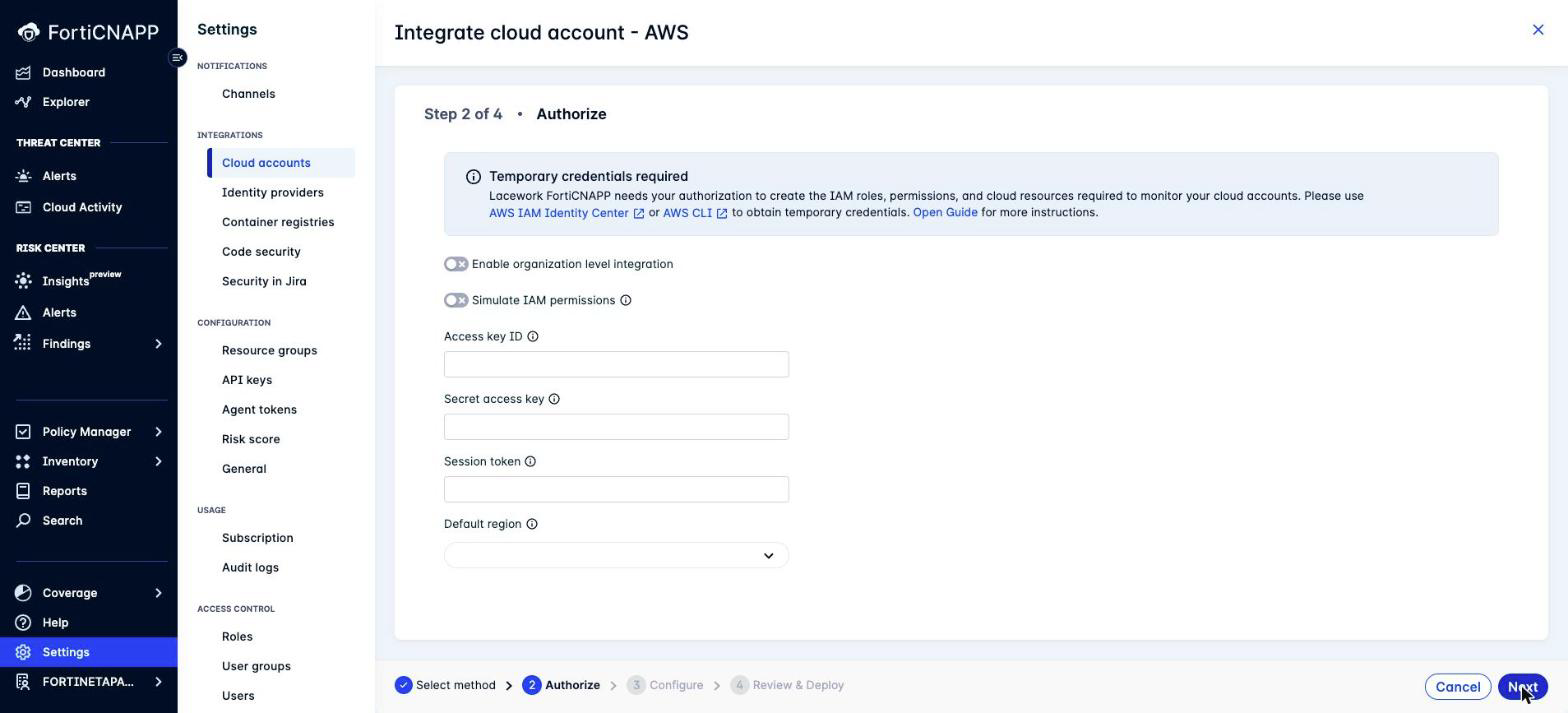
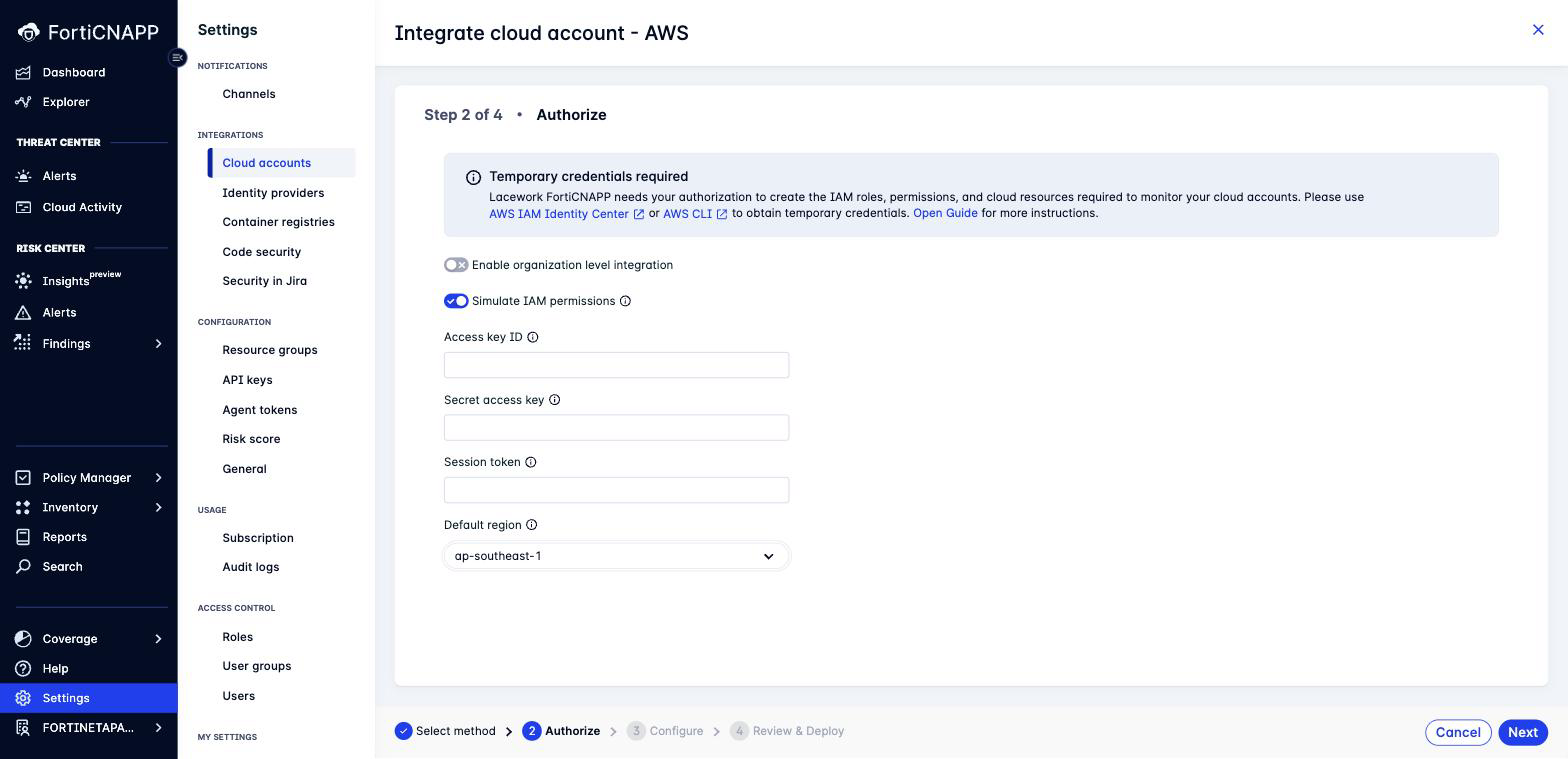
Lab 6: search on the tag key, and warn about orphaned hourly scanners
Three different lacework_tag values seen in one tenant, so a value filter
misses resources. Adds the EventBridge orphan case found in 911167906565:
an agentless rule still firing hourly 18 months after its integration was
deleted.

diff --git a/lab-06/README.md b/lab-06/README.md
@@ -31,9 +31,14 @@ exact tags applied, for example:
 > All cloud resources are tagged with `lacework_tag: self-deployment` and
 > `lacework_integration: aws_config`
 
-> **Read the tag values from this screen.** The administration guide lists the
-> `lacework_integration` value for the configuration integration as `configuration`, while
-> the product applies `aws_config`. The deployment record is authoritative.
+> **Read the tag values from this screen, and search on the tag key.** The values are not
+> stable. The administration guide documents `lacework_tag: self-deployment` and
+> `lacework_integration: configuration`. A 2026 deployment record shows
+> `lacework_integration: aws_config`. Resources deployed in March 2025 carry
+> `lacework_tag: lacework-self-deploy`. All three are real, seen in the same tenant.
+>
+> Search on the key `lacework_tag` with any value. Do not filter on a value, or you will
+> miss resources and leave them running.
 
 Keep this page open. It is your cleanup checklist.
 
@@ -58,8 +63,12 @@ Remove them with the tag search.
 5. Set **Resource types** to **All supported resource types**.
 6. Add this tag filter:
    - **Tag key**: `lacework_tag`
-   - **Tag value**: `self-deployment`
+   - **Tag value**: leave empty, so the search matches every value
 7. Click **Search resources**.
+
+Agentless scanning also tags its networking with `LWTAG_LACEWORK_AGENTLESS`. Run a second
+search on that key to catch the VPC, subnet, route table, internet gateway and security
+group it creates in each scanned region.
 
 The result is every resource automated configuration created. Work through the list and
 delete each one. Cross-check against the Resources table on the deployment record.
@@ -99,6 +108,27 @@ ECS cluster for agentless scanning, and Lambda functions.
 Labs 8 to 11 create their own resources. See
 [Lab 12: Scripted Cleanup of All Workshop Resources](../lab-12/README.md), which runs
 `terraform destroy` for the Lab 9 deployment and sweeps the account.
+
+## Why this lab matters more than it looks
+
+Orphaned agentless infrastructure keeps running.
+
+The agentless scanner is driven by an **EventBridge rule on an hourly schedule**. Deleting
+the integration in FortiCNAPP does not delete that rule. The rule keeps firing, keeps
+starting an ECS task, and keeps costing money, while reporting to an integration that no
+longer exists.
+
+We found exactly this in a real Fortinet demo account: an agentless deployment from March
+2025 still running `rate(1 hour)` in September 2026, pointing at an integration GUID that
+had been deleted from the tenant. Nothing in the FortiCNAPP console showed it, because
+there was no integration left to show.
+
+Check the EventBridge rule in every region you scanned:
+
+```bash
+aws events list-rules --region <region> \
+  --query "Rules[?contains(Name,'lacework')].[Name,State,ScheduleExpression]" --output text
+```
 
 ## What did we do here?
 
